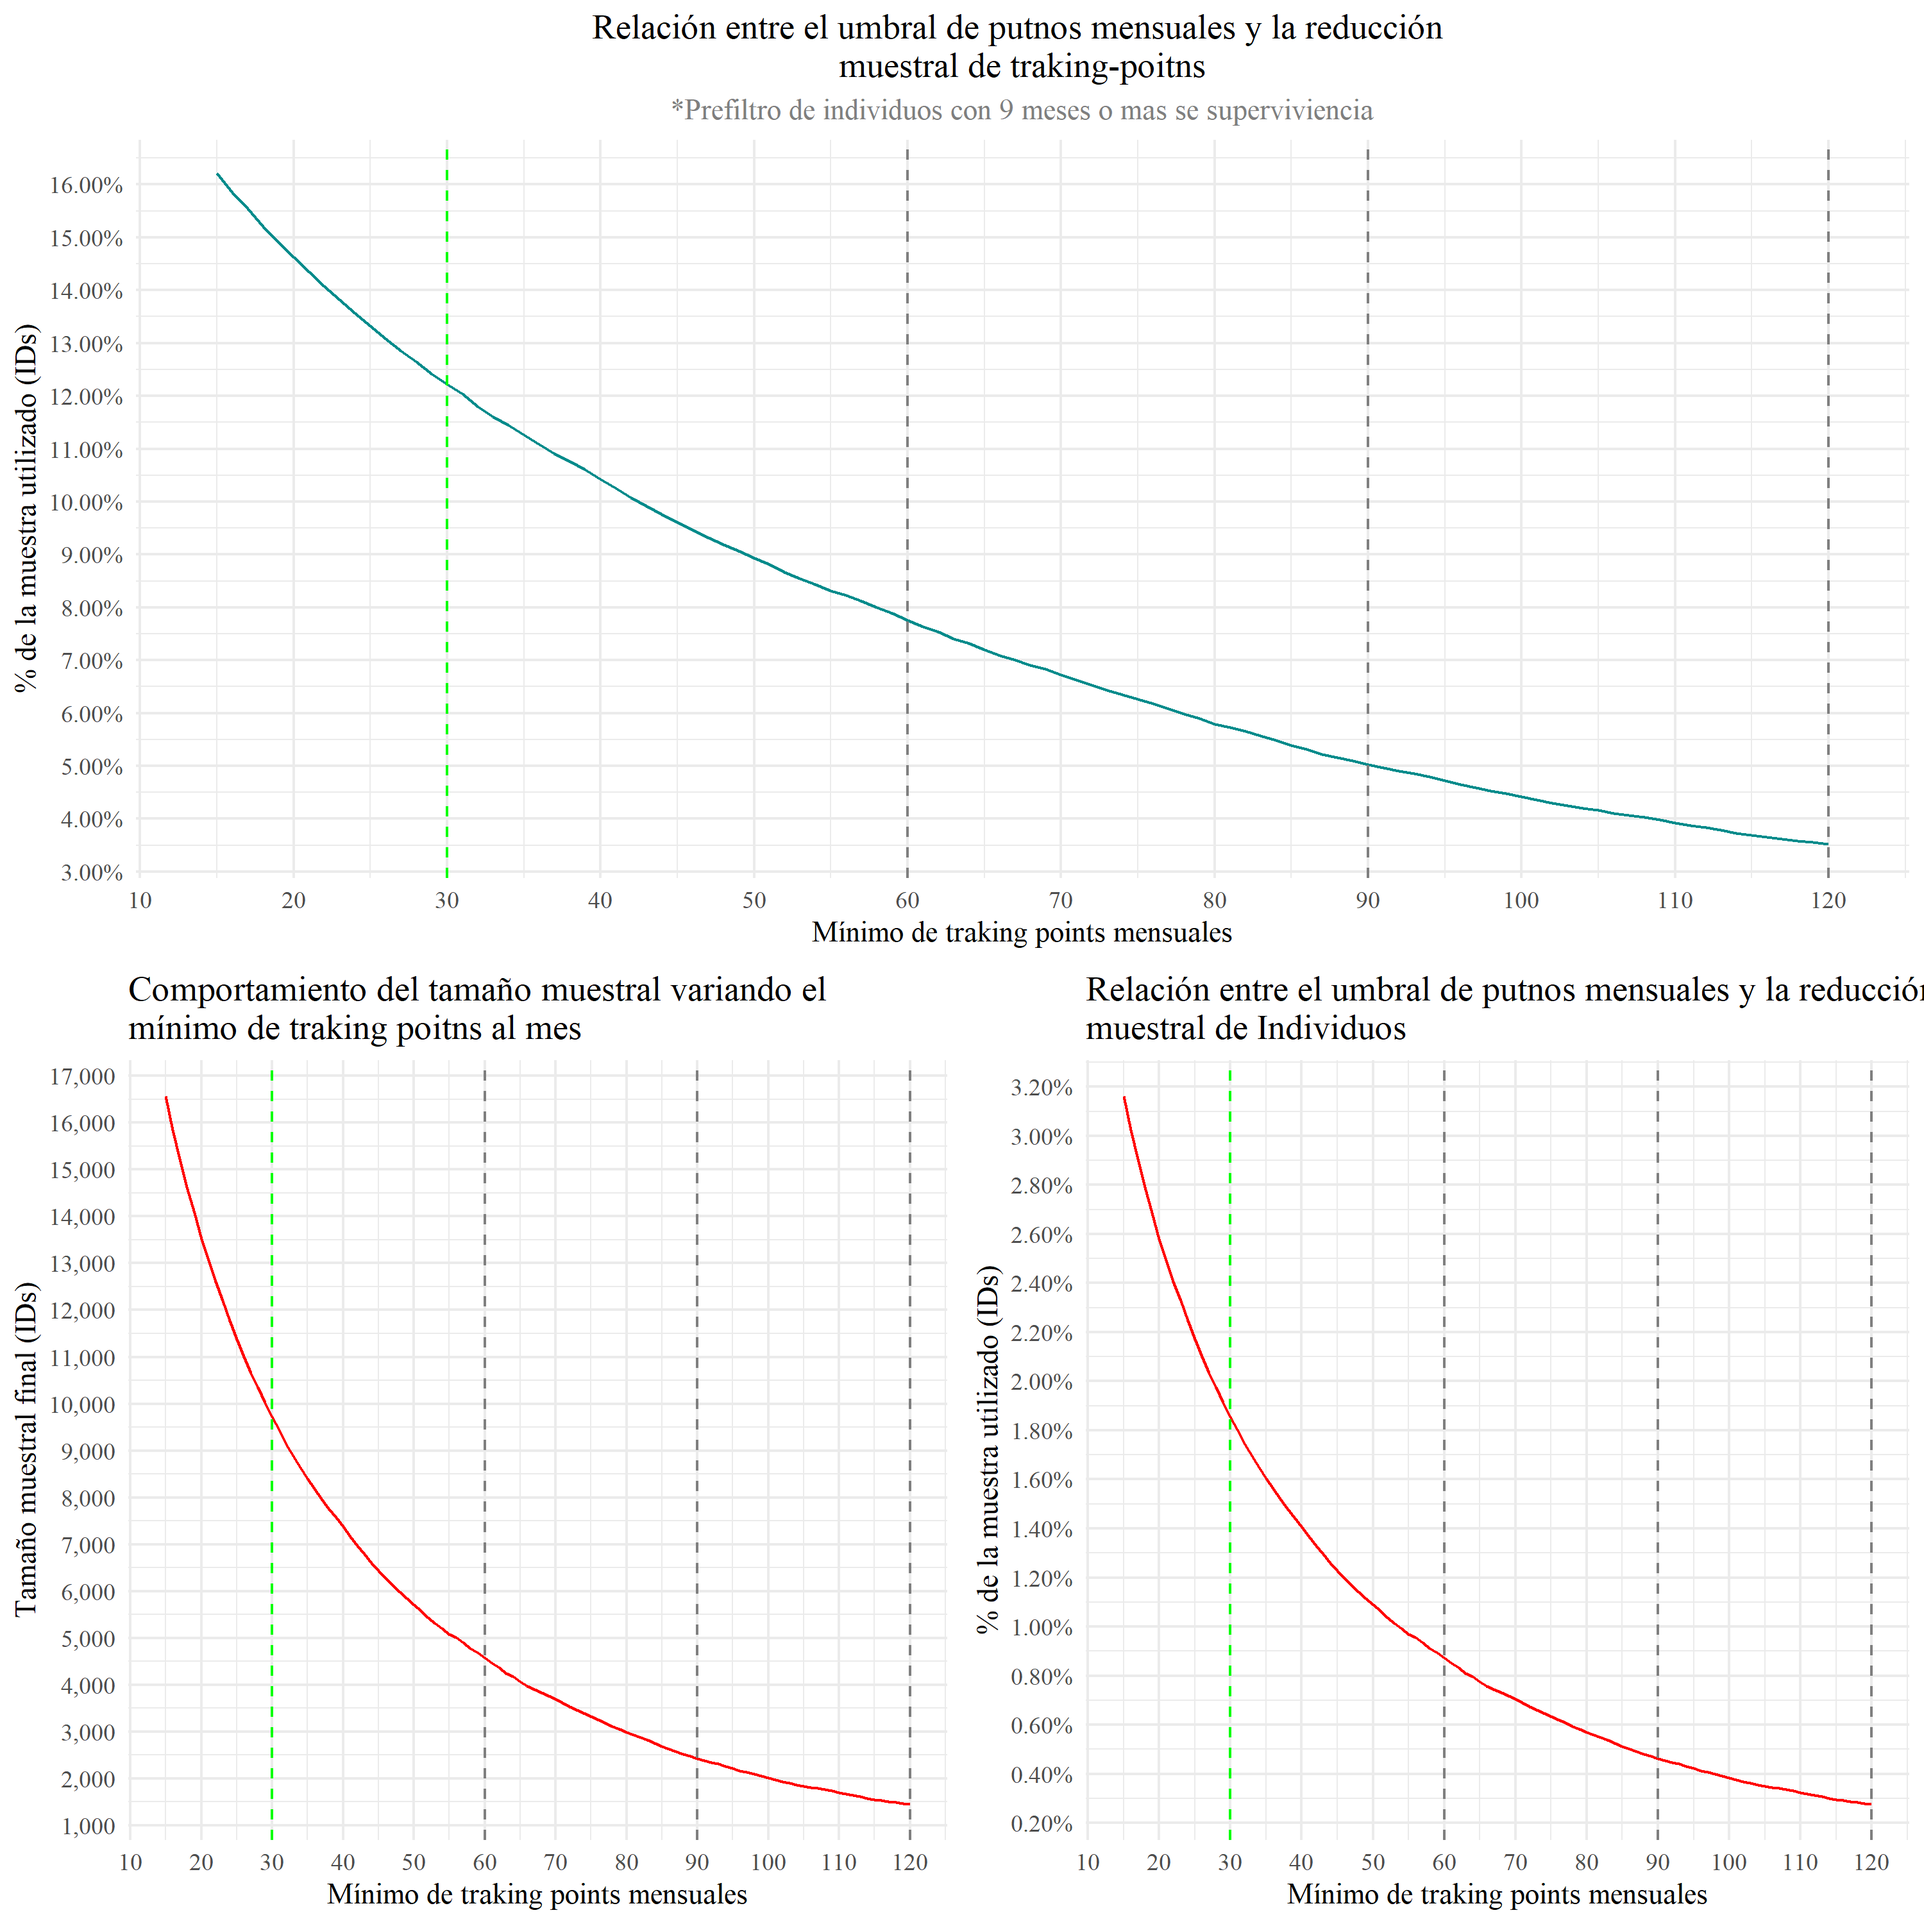
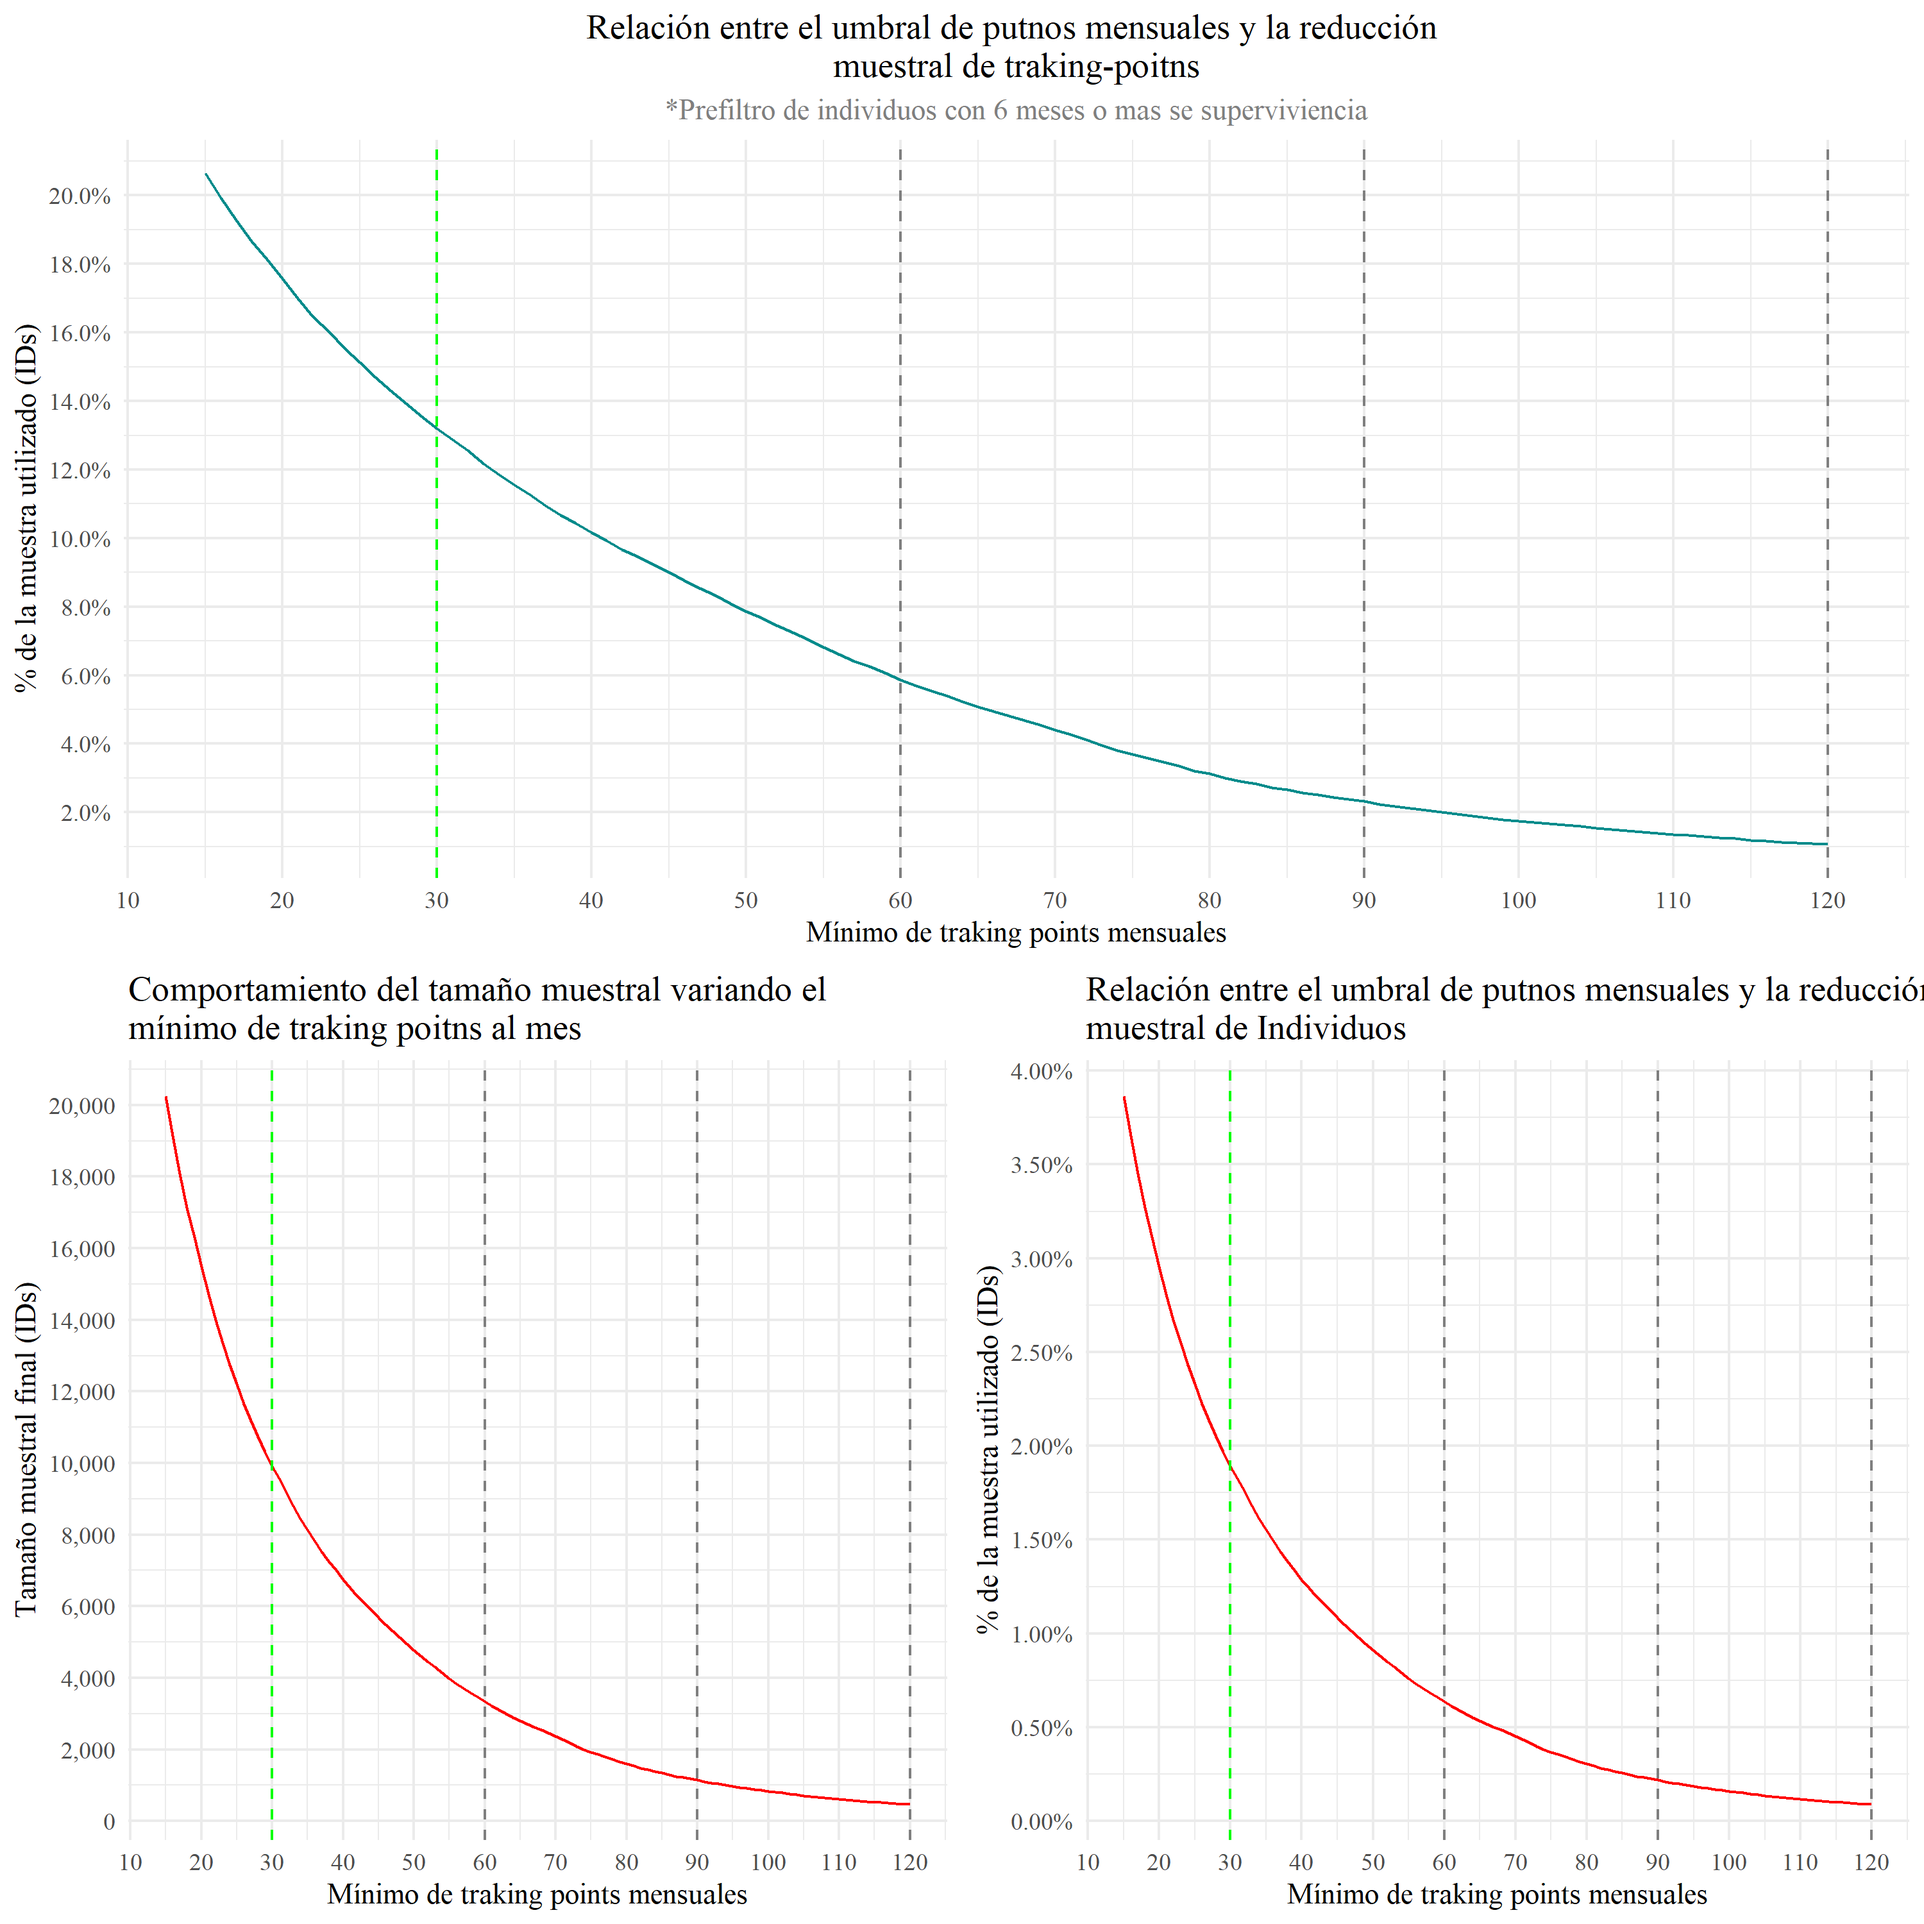
avances

diff --git a/README.md b/README.md
@@ -30,4 +30,4 @@ Taking thise into acount, the next setp is to deside what the value of "$Y$" and
 
 ![alt text](https://github.com/Guibi1994/Urban-quality-in-pandemic-times/blob/main/3.%20Graficas/0.%20Seleccion%20muestral%20Traking%20points.png)
 
-We finally selected a mimum of 9 active months (out of 12), and a minimun of 30 TK each months for indiviudals to be considered part of the study. Evidently this could couse several issues when calculating neighborhood average exposure time, however if we weighted the amount of TK per individual when computing exposure time it could probably acount for some of this bias. In this way, the initial sample size would be arround 9,500 individuals, wich acount for 1,8% of the individuals from the original data-set and 12% of the inital TK. 
+We finally selected a mimum of 6 active months (out of 12), and a minimun of 30 TK each months for indiviudals to be considered part of the study. Evidently this could couse several issues when calculating neighborhood average exposure time, however if we weighted the amount of TK per individual when computing exposure time it could probably acount for some of this bias. In this way, the initial sample size would be arround 10,000 individuals, wich acount for 1,8% of the individuals from the original data-set and 13% of the inital TK. 
